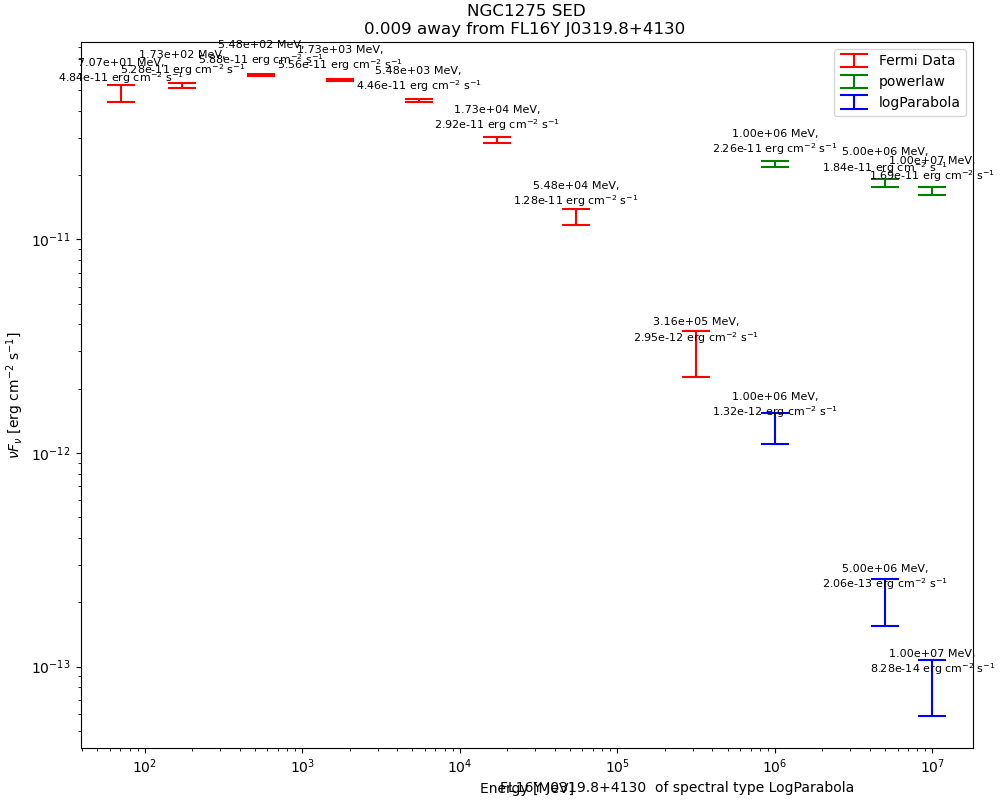
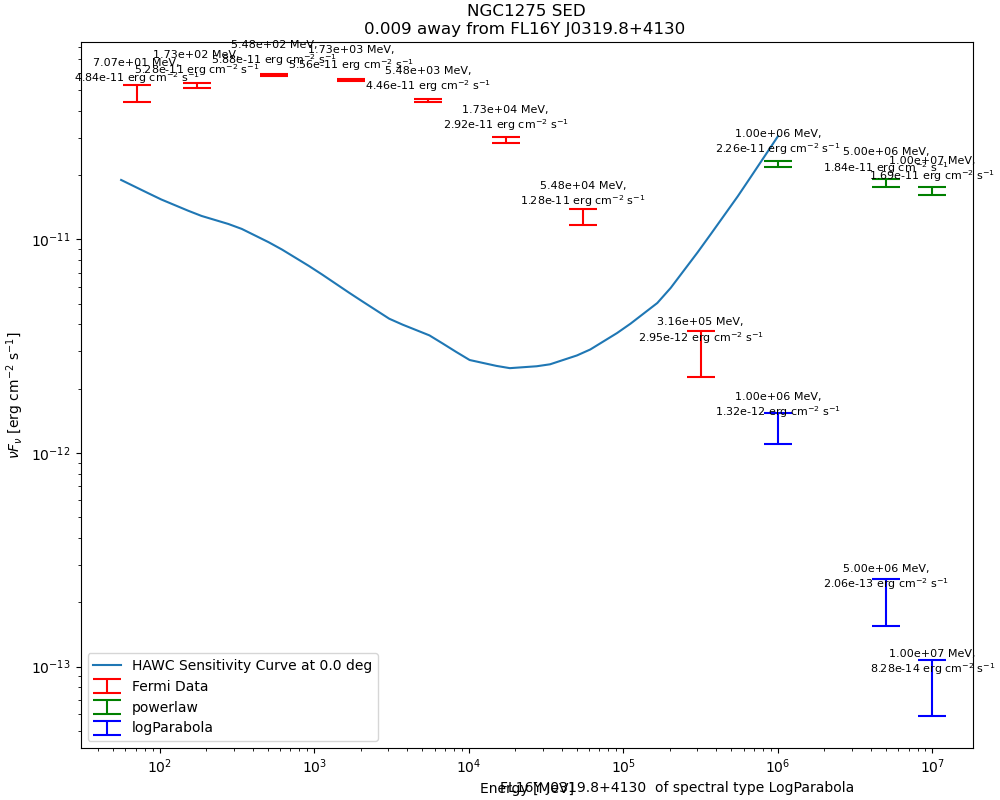
sensitivity

diff --git a/fermi/sourcesfermi.py b/fermi/sourcesfermi.py
@@ -7,6 +7,7 @@ import astropy.units as u
 import csv
 import os
 import matplotlib.pyplot as plt
+from scipy.interpolate import interp1d
 
 CATALOG   = "gll_psc_v41.fit"
 SOURCES   = "data14-195.csv"
@@ -23,6 +24,16 @@ df =  pd.read_csv("fermi_sources.csv",sep='\\s+').to_numpy()
 sourceName = df[:,0]
 RA = df[:,1]
 Dec = df[:,2]
+
+senseE, senseS = np.loadtxt('Fermi-00.txt',unpack=True)
+# MeV,  erg cm^-2 s^-1
+logE = np.log10(senseE)
+logS = np.log10(senseS)
+
+interpfunc = interp1d(logE,logS,kind='linear')
+Esmooth = np.logspace(np.log10(senseE.min()), np.log10(senseE.max()))
+Ssmooth = 10**interpfunc(np.log10(Esmooth))
+
 
 coords = SkyCoord(
     ra  = RA * u.deg,
@@ -217,7 +228,9 @@ for i, s in enumerate(sourceName):
                 xy=(x, y), xytext=(0, 8),
                 textcoords='offset points',
                 fontsize=8, ha='center')
-    
+
+        plt.plot(Esmooth,Ssmooth,label='HAWC Sensitivity Curve at 0.0 deg')    
+
         plt.yscale('log')
         plt.xscale('log')
         plt.xlabel('Energy [MeV]')
